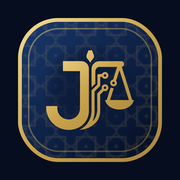
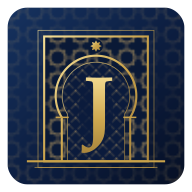
feat(front): L6 E6, identite visuelle Moucharabieh
Logo horizontal clair dans l'en-tete et les ecrans d'authentification,
variante sombre sans fond en mode sombre ; emblemes marine et ivoire ;
icones du navigateur (SVG, 32, 192, 512, apple-touch-icon) et
manifeste ; anciens fichiers du logo retires (sprite Vite inutilise
compris). Les deux PNG importes par la page d'accueil gardent leur nom
et portent l'embleme Moucharabieh.

diff --git a/frontend-react/src/components/ui/BrandLogo.tsx b/frontend-react/src/components/ui/BrandLogo.tsx
@@ -1,27 +1,33 @@
 import { useThemeStore } from '../../store/themeStore';
-// Nouveau logo JURIKA (2026-07-27) : embleme officiel (ecusson navy + monogramme
-// J dore + balance/IA) livre en deux fonds — navy (surfaces sombres) et clair
-// (surfaces claires) — plus le lockup horizontal complet. Tuiles 512px (127 Ko),
-// nettes a 36-48px retina inclus.
-import emblemNavyUrl from '../../assets/brand/jurika-emblem-navy.png';
-import emblemClairUrl from '../../assets/brand/jurika-emblem-clair.png';
-import logoFullUrl from '../../assets/brand/jurika-logo-full.png';
+// Lot L6 (E6) : logo valide "Moucharabieh" (livraison ~/docs/logo/3-moucharabieh,
+// copie sous des noms ASCII). Vectoriel : net a toutes les tailles.
+// - embleme.svg : tuile marine, pour les surfaces claires ;
+// - embleme-ivoire.svg : tuile ivoire, pour les surfaces sombres ;
+// - logo-horizontal-clair.svg : embleme + "JURIKA" marine et or, fond transparent ;
+// - logo-horizontal-sombre-sans-fond.svg : variante sombre (tuile ivoire, lettres
+//   blanches et or) dont le fond marine plein a ete retire pour se poser sur
+//   l'en-tete sombre de l'application.
+import embleme from '../../assets/brand/moucharabieh/embleme.svg';
+import embleIvoire from '../../assets/brand/moucharabieh/embleme-ivoire.svg';
+import horizontalClair from '../../assets/brand/moucharabieh/logo-horizontal-clair.svg';
+import horizontalSombre from '../../assets/brand/moucharabieh/logo-horizontal-sombre-sans-fond.svg';
 
 /**
- * Logo JURIKA — source de verite unique pour l'affichage de la marque.
+ * Logo JURIKA -- source unique pour l'affichage de la marque.
  *
- *  - `variant='emblem'` (defaut) : ecusson carre. Le fond (`tone`) doit matcher
- *    la surface : `navy` sur fond sombre, `clair` sur fond clair. `tone='auto'`
- *    (defaut) resout automatiquement selon le theme applicatif (data-theme) :
- *    theme sombre -> navy, theme clair -> clair.
- *  - `variant='full'` : lockup horizontal (embleme + « JURIKA » + baseline).
- *    Fond velin clair inclus -> a reserver aux surfaces claires.
+ *  - `variant='emblem'` (defaut) : embleme carre ;
+ *  - `variant='full'` : logo horizontal (embleme + "JURIKA" + "Gestion juridique
+ *    des entreprises").
  *
- * `size` = hauteur en px (ratio preserve, `width: auto`).
+ * `tone` designe la SURFACE sur laquelle le logo est pose : `clair` (fond clair :
+ * embleme marine, lettres marine), `navy` (fond sombre : embleme ivoire, lettres
+ * blanches). `auto` (defaut) suit le theme de l'application.
+ *
+ * `size` = hauteur en pixels (proportions conservees).
  */
 interface BrandLogoProps {
   variant?: 'emblem' | 'full';
-  /** Fond de l'embleme. 'auto' (defaut) suit le theme applicatif. */
+  /** Surface sous le logo. 'auto' (defaut) suit le theme applicatif. */
   tone?: 'auto' | 'navy' | 'clair';
   /** Hauteur en pixels. Defaut 36. */
   size?: number;
@@ -30,13 +36,9 @@ interface BrandLogoProps {
 
 export function BrandLogo({ variant = 'emblem', tone = 'auto', size = 36, className }: BrandLogoProps) {
   const mode = useThemeStore((s) => s.mode);
-  const resolvedTone = tone === 'auto' ? (mode === 'dark' ? 'navy' : 'clair') : tone;
+  const sombre = tone === 'auto' ? mode === 'dark' : tone === 'navy';
   const src =
-    variant === 'full'
-      ? logoFullUrl
-      : resolvedTone === 'navy'
-        ? emblemNavyUrl
-        : emblemClairUrl;
+    variant === 'full' ? (sombre ? horizontalSombre : horizontalClair) : sombre ? embleIvoire : embleme;
   return (
     <img
       src={src}

diff --git a/frontend-react/index.html b/frontend-react/index.html
@@ -2,14 +2,15 @@
 <html lang="fr">
   <head>
     <meta charset="UTF-8" />
-    <!-- Favicon JURIKA (nouveau logo, 2026-07-27) : PNG multi-tailles + apple-touch-icon. -->
+    <!-- Lot L6 (E6) : icones du logo Moucharabieh (~/docs/logo/3-moucharabieh) :
+         embleme vectoriel, PNG 32, 192 et 512, apple-touch-icon (192). -->
+    <link rel="icon" type="image/svg+xml" href="/favicon.svg" />
     <link rel="icon" type="image/png" sizes="32x32" href="/favicon-32.png" />
-    <link rel="icon" type="image/png" sizes="16x16" href="/favicon-16.png" />
-    <link rel="apple-touch-icon" sizes="180x180" href="/apple-touch-icon.png" />
+    <link rel="apple-touch-icon" href="/apple-touch-icon.png" />
     <link rel="manifest" href="/site.webmanifest" />
-    <meta name="theme-color" content="#050d1f" />
+    <meta name="theme-color" content="#0c1d3f" />
     <meta name="viewport" content="width=device-width, initial-scale=1.0" />
-    <title>JURIKA — Gestion juridique augmentée</title>
+    <title>JURIKA — Gestion juridique des entreprises</title>
   </head>
   <body>
     <div id="root"></div>
